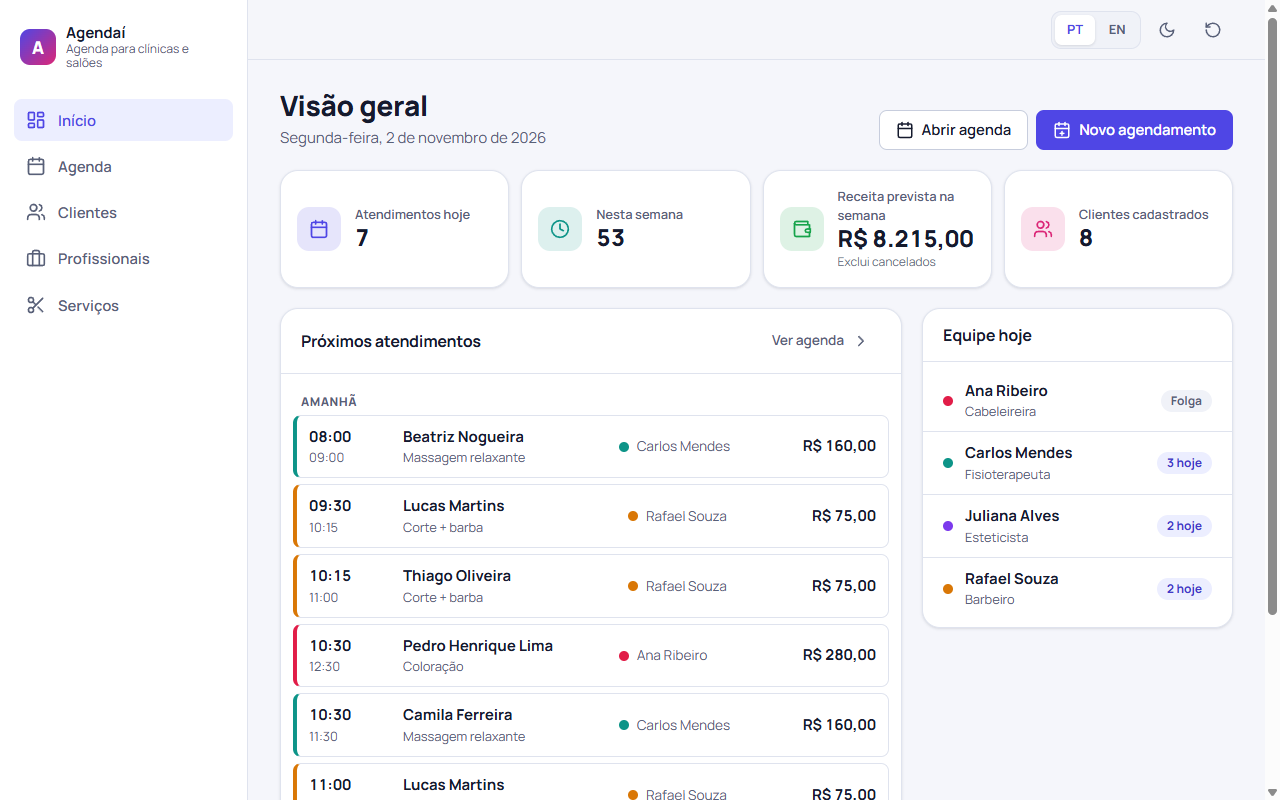
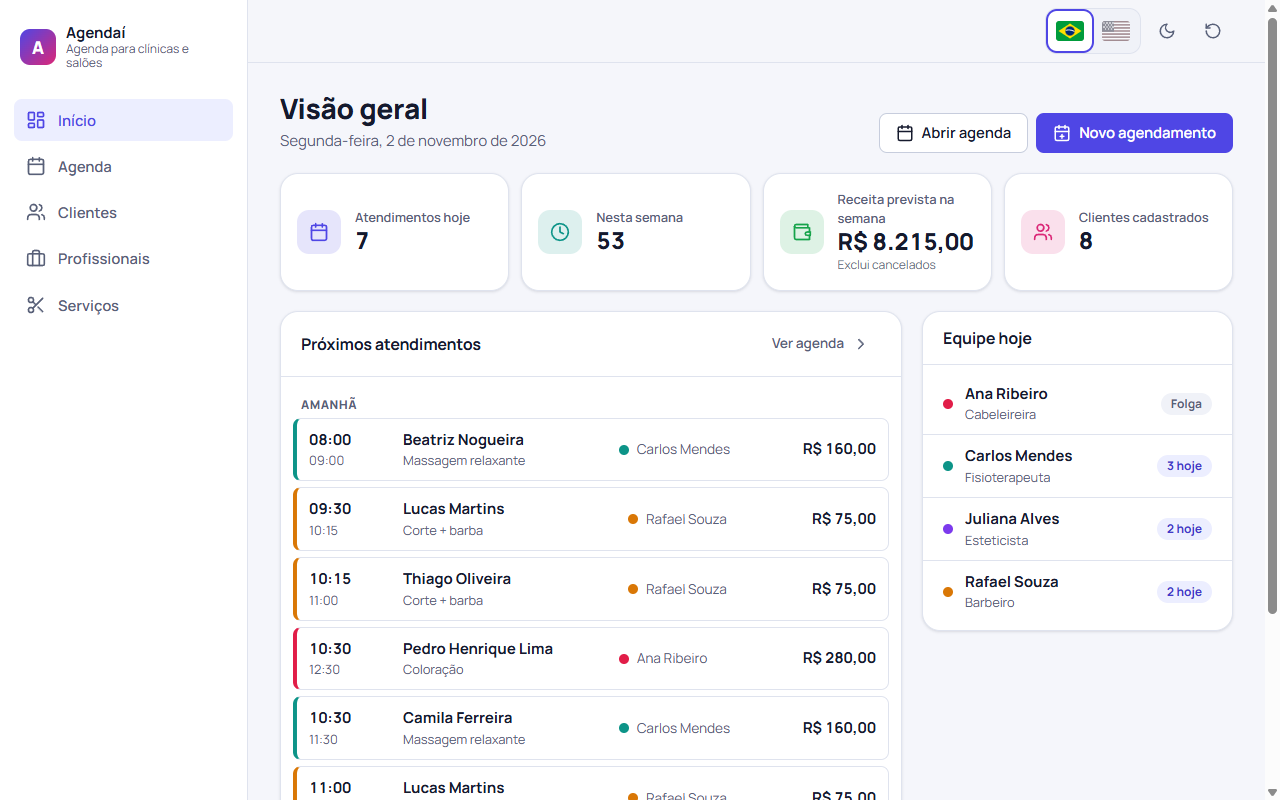
feat(i18n): use flag buttons in the language switcher

diff --git a/src/app/core/layout/language-switcher/language-switcher.component.spec.ts b/src/app/core/layout/language-switcher/language-switcher.component.spec.ts
@@ -21,25 +21,49 @@ describe('LanguageSwitcherComponent', () => {
     const fixture = TestBed.createComponent(LanguageSwitcherComponent);
     fixture.detectChanges();
     const element = fixture.nativeElement as HTMLElement;
-    const button = (label: string) =>
-      element.querySelector<HTMLButtonElement>(`button[aria-label="${label}"]`);
-    return { fixture, element, button };
+    const group = () => element.querySelector<HTMLElement>('[role="group"]');
+    /** Finds a button by its accessible name (the native language name). */
+    const button = (name: string) =>
+      [...element.querySelectorAll<HTMLButtonElement>('button')].find(
+        (candidate) => candidate.getAttribute('aria-label') === name,
+      );
+    return { fixture, group, button };
   }
 
   beforeEach(() => {
     storage = new MemoryStorage();
   });
 
-  it('renders an accessible group that marks the current language', () => {
-    const { element, button } = render();
-    expect(element.querySelector('[role="group"]')?.getAttribute('aria-label')).toBe('Idioma');
-    expect(button('Português (Brasil)')?.getAttribute('aria-pressed')).toBe('true');
-    expect(button('English')?.getAttribute('aria-pressed')).toBe('false');
-    expect(button('English')?.getAttribute('lang')).toBe('en');
+  it('renders one flag button per language inside a labelled group', () => {
+    const { group, button } = render();
+    expect(group()?.getAttribute('aria-label')).toBe('Idioma');
+
+    const portuguese = button('Português (Brasil)');
+    const english = button('English');
+    expect(portuguese?.getAttribute('title')).toBe('Português (Brasil)');
+    expect(portuguese?.getAttribute('lang')).toBe('pt-BR');
+    expect(english?.getAttribute('title')).toBe('English');
+    expect(english?.getAttribute('lang')).toBe('en');
   });
 
-  it('switches to English, persists the choice and relabels itself', async () => {
-    const { fixture, element, button } = render();
+  it('shows flags as decorative images and no PT/EN text', () => {
+    const { group, button } = render();
+    for (const name of ['Português (Brasil)', 'English']) {
+      const flag = button(name)?.querySelector('app-flag');
+      expect(flag?.getAttribute('aria-hidden')).toBe('true');
+      expect(flag?.querySelector('svg')).toBeTruthy();
+    }
+    expect(group()?.textContent?.trim()).toBe('');
+  });
+
+  it('marks the current language as pressed', () => {
+    const { button } = render();
+    expect(button('Português (Brasil)')?.getAttribute('aria-pressed')).toBe('true');
+    expect(button('English')?.getAttribute('aria-pressed')).toBe('false');
+  });
+
+  it('switches to English, persists the choice and relabels the group', async () => {
+    const { fixture, group, button } = render();
 
     button('English')?.click();
     fixture.detectChanges();
@@ -48,8 +72,9 @@ describe('LanguageSwitcherComponent', () => {
 
     expect(TestBed.inject(TranslocoService).getActiveLang()).toBe('en');
     expect(button('English')?.getAttribute('aria-pressed')).toBe('true');
+    expect(button('English')?.classList).toContain('is-active');
     expect(button('Português (Brasil)')?.getAttribute('aria-pressed')).toBe('false');
     expect(JSON.parse(storage.getItem(`${STORAGE_PREFIX}:language`) ?? '""')).toBe('en');
-    expect(element.querySelector('[role="group"]')?.getAttribute('aria-label')).toBe('Language');
+    expect(group()?.getAttribute('aria-label')).toBe('Language');
   });
 });

diff --git a/src/app/core/layout/language-switcher/language-switcher.component.ts b/src/app/core/layout/language-switcher/language-switcher.component.ts
@@ -1,12 +1,16 @@
 import { ChangeDetectionStrategy, Component, inject } from '@angular/core';
 import { TranslocoPipe } from '@jsverse/transloco';
 
+import { FlagComponent } from '../../../shared/ui/flag/flag.component';
 import { LanguageService } from '../../i18n/language.service';
 
-/** Segmented PT | EN control. Each option is labelled with its native language name. */
+/**
+ * Flag toggle (Brazil = pt-BR, USA = en). Each button is named in its own language and marks
+ * the active option with `aria-pressed`; the flags themselves are decorative.
+ */
 @Component({
   selector: 'app-language-switcher',
-  imports: [TranslocoPipe],
+  imports: [TranslocoPipe, FlagComponent],
   template: `
     <div class="switcher" role="group" [attr.aria-label]="'shell.language' | transloco">
       @for (language of languages.languages; track language.code) {
@@ -20,7 +24,7 @@ import { LanguageService } from '../../i18n/language.service';
           [title]="language.label"
           (click)="languages.use(language.code)"
         >
-          {{ language.short }}
+          <app-flag [language]="language.code" />
         </button>
       }
     </div>
@@ -28,36 +32,67 @@ import { LanguageService } from '../../i18n/language.service';
   styles: `
     .switcher {
       display: inline-flex;
-      padding: 3px;
       gap: 2px;
-      border-radius: 10px;
-      background: var(--surface-2);
+      padding: 2px;
       border: 1px solid var(--border);
+      border-radius: 12px;
+      background: var(--surface-2);
     }
 
     .switcher__option {
-      min-width: 40px;
-      min-height: 30px;
-      padding: 0 10px;
+      display: grid;
+      place-items: center;
+      width: 44px;
+      height: 40px;
+      padding: 0;
       border: 0;
-      border-radius: 7px;
+      border-radius: 9px;
       background: transparent;
-      color: var(--text-muted);
-      font-size: 0.8rem;
-      font-weight: 700;
       cursor: pointer;
       transition:
         background-color var(--transition),
-        color var(--transition);
+        box-shadow var(--transition);
 
-      &:hover {
-        color: var(--text);
+      app-flag {
+        opacity: 0.55;
+        filter: grayscale(0.7);
+        transition:
+          opacity var(--transition),
+          filter var(--transition),
+          transform var(--transition);
       }
 
+      &:hover app-flag,
+      &:focus-visible app-flag {
+        opacity: 1;
+        filter: none;
+      }
+
+      &:hover app-flag {
+        transform: scale(1.06);
+      }
+
+      /* Active state is shown by the ring and surface, not only by color. */
       &.is-active {
         background: var(--surface);
-        color: var(--primary);
-        box-shadow: var(--shadow-sm);
+        box-shadow:
+          0 0 0 2px var(--primary),
+          var(--shadow-sm);
+
+        app-flag {
+          opacity: 1;
+          filter: none;
+        }
+      }
+
+      &:focus-visible {
+        box-shadow: var(--focus-ring);
+      }
+
+      &.is-active:focus-visible {
+        box-shadow:
+          0 0 0 2px var(--primary),
+          var(--focus-ring);
       }
     }
   `,

diff --git a/src/app/shared/ui/flag/flag.component.ts b/src/app/shared/ui/flag/flag.component.ts
@@ -1,0 +1,80 @@
+import { ChangeDetectionStrategy, Component, input } from '@angular/core';
+
+import { AppLanguage } from '../../../core/i18n/languages';
+
+/**
+ * Decorative 28x20 flag for a language (Brazil for pt-BR, USA for en). Inline SVG instead of
+ * flag emoji, which Windows renders as plain letters. The rounded corners come from the host
+ * (`overflow: hidden`), so no `clipPath` id has to be unique per instance.
+ */
+@Component({
+  selector: 'app-flag',
+  template: `
+    <svg viewBox="0 0 28 20" width="28" height="20" aria-hidden="true" focusable="false">
+      @switch (language()) {
+        @case ('pt-BR') {
+          <rect width="28" height="20" fill="#009C3B" />
+          <path d="M14 2.5 25.5 10 14 17.5 2.5 10Z" fill="#FFDF00" />
+          <circle cx="14" cy="10" r="4.6" fill="#002776" />
+          <path d="M9.6 8.9c3-.9 6.3-.6 8.9 1.1l-.3.9c-2.5-1.6-5.6-1.9-8.4-1.1Z" fill="#fff" />
+        }
+        @case ('en') {
+          <rect width="28" height="20" fill="#fff" />
+          <path
+            d="M0 0h28M0 3.08h28M0 6.15h28M0 9.23h28M0 12.3h28M0 15.38h28M0 18.46h28"
+            stroke="#B22234"
+            stroke-width="1.54"
+            transform="translate(0 .77)"
+          />
+          <rect width="12" height="10.77" fill="#3C3B6E" />
+          <g fill="#fff">
+            @for (star of stars; track $index) {
+              <circle [attr.cx]="star[0]" [attr.cy]="star[1]" r=".6" />
+            }
+          </g>
+        }
+      }
+    </svg>
+  `,
+  styles: `
+    :host {
+      display: inline-flex;
+      flex: none;
+      width: 28px;
+      height: 20px;
+      overflow: hidden;
+      border-radius: 3px;
+      /* Hairline so the white stripes stay visible on light surfaces. */
+      box-shadow: inset 0 0 0 1px rgb(0 0 0 / 12%);
+    }
+
+    svg {
+      display: block;
+      width: 100%;
+      height: 100%;
+    }
+  `,
+  host: { 'aria-hidden': 'true' },
+  changeDetection: ChangeDetectionStrategy.OnPush,
+})
+export class FlagComponent {
+  readonly language = input.required<AppLanguage>();
+
+  /** Simplified canton: 4 rows alternating 4 and 3 stars. */
+  protected readonly stars: readonly (readonly [number, number])[] = [
+    [2, 2],
+    [5, 2],
+    [8, 2],
+    [11, 2],
+    [3.5, 4],
+    [6.5, 4],
+    [9.5, 4],
+    [2, 6],
+    [5, 6],
+    [8, 6],
+    [11, 6],
+    [3.5, 8],
+    [6.5, 8],
+    [9.5, 8],
+  ];
+}

diff --git a/src/app/core/i18n/languages.ts b/src/app/core/i18n/languages.ts
@@ -4,14 +4,13 @@ export interface LanguageOption {
   readonly code: AppLanguage;
   /** Angular locale id used for dates, numbers and currency. */
   readonly locale: string;
-  /** Native name, shown as-is regardless of the active language. */
+  /** Native name, used as the switcher button name regardless of the active language. */
   readonly label: string;
-  readonly short: string;
 }
 
 export const LANGUAGES: readonly LanguageOption[] = [
-  { code: 'pt-BR', locale: 'pt-BR', label: 'Português (Brasil)', short: 'PT' },
-  { code: 'en', locale: 'en-US', label: 'English', short: 'EN' },
+  { code: 'pt-BR', locale: 'pt-BR', label: 'Português (Brasil)' },
+  { code: 'en', locale: 'en-US', label: 'English' },
 ];
 
 export const DEFAULT_LANGUAGE: AppLanguage = 'pt-BR';

diff --git a/README.md b/README.md
@@ -106,7 +106,7 @@ public/i18n/             traduções globais + um escopo lazy por feature (<feat
 O app é traduzido em tempo de execução com **Transloco** (`@jsverse/transloco`) — pt-BR é o idioma padrão e inglês o segundo.
 
 - **Idioma inicial:** escolha salva no `localStorage` (`appointment-scheduler:language`) > idioma do navegador (`pt*` → pt-BR, qualquer outro → en) > pt-BR. A regra é a função pura `detectLanguage` (`core/i18n/languages.ts`), e os idiomas do navegador chegam pelo token `BROWSER_LANGUAGES`, o que permite testar a detecção.
-- **Troca de idioma:** o seletor PT | EN no cabeçalho (grupo com `aria-label`, `aria-pressed` no idioma ativo e o nome nativo de cada idioma) chama `LanguageService.use()`, que ativa o idioma no Transloco, atualiza `<html lang>`, o locale de formatação e o título da aba, e salva a escolha.
+- **Troca de idioma:** o seletor de bandeiras no cabeçalho (Brasil = pt-BR, EUA = en; SVG inline em `FlagComponent`, decorativo, em vez de emoji, que o Windows mostra como letras) é um grupo rotulado "Idioma"/"Language" com um botão por idioma — nome acessível, `title` e `lang` no próprio idioma, `aria-pressed` e anel de destaque no ativo. Ele chama `LanguageService.use()`, que ativa o idioma no Transloco, atualiza `<html lang>`, o locale de formatação e o título da aba, e salva a escolha.
 - **Arquivos:** `public/i18n/{pt-BR,en}.json` guardam só o que é global (shell, navegação, ações comuns, mensagens de validação). Cada feature tem um **escopo lazy** em `public/i18n/<feature>/{pt-BR,en}.json` (`dashboard`, `calendar`, `clients`, `professionals`, `services`, `appointments`), registrado com `provideTranslocoScope()` nos `providers` da rota da feature — o JSON é baixado junto com o chunk da feature. O diálogo de agendamento, aberto de várias telas, registra o escopo `appointments` no próprio componente.
 - **Formatação:** `registerLocaleData` registra `pt` (o `en-US` já vem no Angular). Os pipes `localeDate` e `localeCurrency` usam o locale ativo — a moeda continua BRL, só a formatação muda. O FullCalendar recebe `pt-br`/`en`.
 - **Fora do escopo da tradução:** os dados cadastrados (nomes de serviços, especialidades, observações) são conteúdo do usuário e aparecem como foram digitados, inclusive os dados de demonstração.
@@ -134,7 +134,7 @@ npm run build:pages    # build com base-href do GitHub Pages
 
 ## Testes
 
-114 testes unitários (Karma/Jasmine) cobrindo:
+116 testes unitários (Karma/Jasmine) cobrindo:
 
 - validadores de CPF, telefone e CPF único, máscaras e utilitários de data;
 - regras de agenda (sobreposição, expediente, passado, ordem de prioridade);

diff --git a/README.en.md b/README.en.md
@@ -19,7 +19,7 @@ A booking app for clinics and salons built with **Angular 20** and **FullCalenda
 ## Internationalization
 
 - Initial language: saved choice (`localStorage`) > browser language (`pt*` → pt-BR, anything else → en) > pt-BR.
-- The PT | EN switcher in the header updates Transloco, `<html lang>`, the formatting locale, the calendar locale and the page title, and saves the choice.
+- The flag switcher in the header (Brazil = pt-BR, USA = en; inline SVG flags, named buttons with `aria-pressed`) updates Transloco, `<html lang>`, the formatting locale, the calendar locale and the page title, and saves the choice.
 - Global strings live in `public/i18n/{pt-BR,en}.json`; each feature has a **lazy Transloco scope** in `public/i18n/<feature>/` registered with `provideTranslocoScope()` on its route, so translations download together with the feature chunk.
 - User-entered content (service names, specialties, notes) is shown as typed.
 - To add a language: add the JSON files, list it in `LANGUAGES` (`core/i18n/languages.ts`) and register its Angular locale data in `core/i18n/register-locales.ts`.
@@ -40,7 +40,7 @@ Angular 20.3 (standalone, Signals, control flow, `@defer`), TypeScript 5.9, Full
 ```bash
 npm install
 npm start            # http://localhost:4200
-npm run test:ci      # 114 unit tests in headless Chrome
+npm run test:ci      # 116 unit tests in headless Chrome
 npm run lint
 npm run build
 ```
